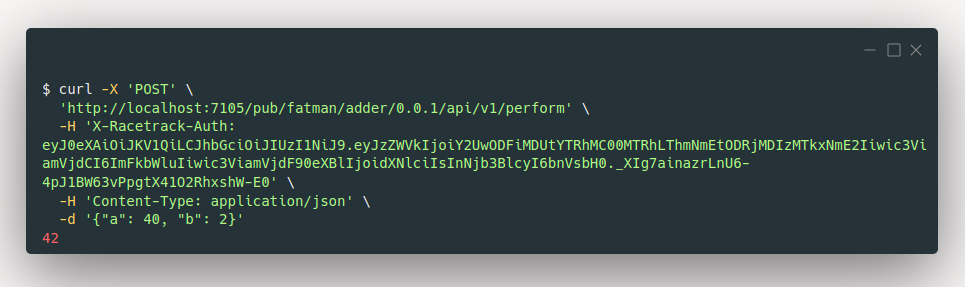
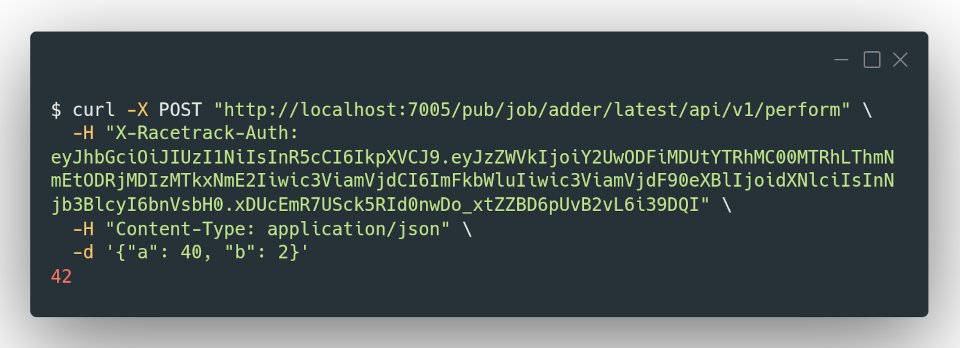
Update screenshots in docs

Changed region(s): [[0.0, 0.1115, 1.0, 0.9199], [0.0312, 0.0836, 0.9688, 0.1115]]

diff --git a/README.md b/README.md
@@ -68,6 +68,8 @@ or called with a curl command:
 
 ![](docs/assets/example-curl-call.png)
 
+[//]: # (https://carbon.now.sh/?bg=rgba%28255%2C255%2C255%2C1%29&t=material&wt=boxy&l=application%2Fx-sh&width=812&ds=true&dsyoff=20px&dsblur=68px&wc=true&wa=false&pv=56px&ph=56px&ln=false&fl=1&fm=Hack&fs=14px&lh=133%25&si=false&es=2x&wm=false&code=%2524%2520curl%2520-X%2520POST%2520%2522http%253A%252F%252Flocalhost%253A7005%252Fpub%252Fjob%252Fadder%252Flatest%252Fapi%252Fv1%252Fperform%2522%2520%255C%250A%2520%2520-H%2520%2522X-Racetrack-Auth%253A%2520eyJhbGciOiJIUzI1NiIsInR5cCI6IkpXVCJ9.eyJzZWVkIjoiY2UwODFiMDUtYTRhMC00MTRhLThmNmEtODRjMDIzMTkxNmE2Iiwic3ViamVjdCI6ImFkbWluIiwic3ViamVjdF90eXBlIjoidXNlciIsInNjb3BlcyI6bnVsbH0.xDUcEmR7USck5RId0nwDo_xtZZBD6pUvB2vL6i39DQI%2522%2520%255C%250A%2520%2520-H%2520%2522Content-Type%253A%2520application%252Fjson%2522%2520%255C%250A%2520%2520-d%2520%27%257B%2522a%2522%253A%252040%252C%2520%2522b%2522%253A%25202%257D%27%250A42)
+
 ## Getting started
 
 For new users, you can run Racetrack locally in a [KinD](https://kind.sigs.k8s.io/) environment;
